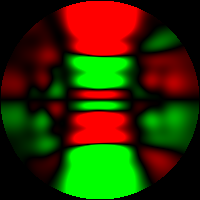
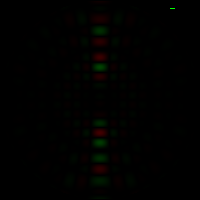
NTFF and periodic BC working

diff --git a/excFDTD/excFDTD.c b/excFDTD/excFDTD.c
@@ -10,11 +10,11 @@
 #define _DimY (100)
 #define _DimZ (100)
 
-#define _STEP (1)
+#define _STEP (50)
 
 //eq35
 //consider using simple PML for NTFF calculation
-#define _PML_PX_X_ (16)
+#define _PML_PX_X_ (0)
 #define _PML_PX_Y_ (0)
 #define _PML_PX_Z_ (16)
 #define _PML_ALPHA_TUNING_ 0.1f
@@ -285,6 +285,7 @@ void Dielectric_HE_C(void);
 void DCP_HE_C(void);
 void syncPadding(void);
 void RFT(void);
+void NTFF_onlyUpside(void);
 void NTFF(void);
 int snapshot(void);
 
@@ -300,8 +301,8 @@ int main(int argc, char* argv[])
 		float addval = sin(2.0f * M_PI * _c0 / 500e-9 * (float)i * _dt_) * exp(-((float)i - 50.0f)*((float)i - 50.0f) / 25.0f / 25.0f);
 		//float addval = sin(2.0f * M_PI * _c0 / 500e-9 * (float)i * _dt_) ;
 		addval /= 1000.0f * 32.0f;
-		for (int i = 5; i < 95; i++) {
-			for (int j = 5; j < 95; j++) {
+		for (int i = 0; i < _DimX; i++) {
+			for (int j = 0; j < _DimX; j++) {
 				eps0_c_Ey[_INDEX_XYZ(i, j, 50)] += addval / 1.0f;
 				Hx[_INDEX_XYZ(i, j, 50)] -= addval / 2.0f;
 				Hx[_INDEX_XYZ(i, j, 49)] -= addval / 2.0f;
@@ -312,7 +313,8 @@ int main(int argc, char* argv[])
 	}
 	printf("\ntime : %f\n", (double)(clock() - start) / CLK_TCK);
 	snapshot();
-	//NTFF();
+	NTFF_onlyUpside();
+	NTFF();
 	return 0;
 }
 
@@ -523,6 +525,28 @@ void RFT(void) {
 	RFT_counter++;
 }
 
+void NTFF_onlyUpside(void){
+	for (int i = 0; i < _SURF_SIZE_; i++) {
+		for (int j = 0; j < FREQ_N; j++) {
+			int surf_x, surf_y, surf_z;
+			_SET_SURF_XYZ_INDEX(i);
+			if (surf_z != _SURF_EndZ_) {
+				FT_eps0cE[i][j][0][0] = 0;
+				FT_eps0cE[i][j][1][0] = 0;
+				FT_eps0cE[i][j][2][0] = 0;
+				FT_eps0cE[i][j][0][1] = 0;
+				FT_eps0cE[i][j][1][1] = 0;
+				FT_eps0cE[i][j][2][1] = 0;
+				FT_H[i][j][0][0] = 0;
+				FT_H[i][j][1][0] = 0;
+				FT_H[i][j][2][0] = 0;
+				FT_H[i][j][0][1] = 0;
+				FT_H[i][j][1][1] = 0;
+				FT_H[i][j][2][1] = 0;
+			}
+		}
+	}
+}
 
 #define NTFF_IMG_SIZE 200
 #define _SURF_MidX_ ((_SURF_StartX_+_SURF_EndX_)/2.0f)
@@ -1147,13 +1171,17 @@ int init(void)
 		Y += (tmp % _gridDimY) * (_blockDimY - 2); tmp /= _gridDimY;
 		Z += (tmp % _gridDimZ) * (_blockDimZ - 2); tmp /= _gridDimZ;
 		//if (X >= _DimX+1 || Y >= _DimY+1 || Z >= _DimZ+1) { continue; }
+		if (X>= _DimX || Y >= _DimY || Z >= _DimZ) {
+			mask[i] |= (1 << 0); // 0th bit : Padding 
+			continue;
+		}
 
 		alpha_dt_div_eps0[i] = (_PML_ALPHA_TUNING_); // FIXME 
 
 
 		//FIXME : check PML area
 		//FIXME : sigma do not need to be an array
-		if ((X + 1 <= ((_PML_PX_X_)) || (_DimX)-((_PML_PX_X_)) <= X)) {
+		if ((X + 1 <= ((_PML_PX_X_)) || (_DimX)-((_PML_PX_X_)) <= X) && Y<_DimX) {
 			//if ((X + 1 <= ((pml_px_x)) || (_DimX)-((pml_px_x)) <= X) && ((pml_px_y)) < Y+1 && Y < (_DimY)-((_PML_PX_Y_)) && ((_PML_PX_Z_)) < Z + 1 && Z < (_DimZ)-((_PML_PX_Z_)) ) {
 			mask[i] |= (1 << 1); // 1st bit : PML
 			sigmaX_dt_div_eps0[i] = pow(fmin(fabs(((_PML_PX_X_))-X), fabs(((_PML_PX_X_))+X - (_DimX)+1)) / ((pml_px_x)), (pml_n)) / pml_sigma_x_dt_div_eps0_max_inv;
@@ -1161,7 +1189,7 @@ int init(void)
 			b_X[i] = expf( -alpha_dt_div_eps0[i] - sigmaX_dt_div_eps0[i]/kappaX[i] ); //close to 0
 			C_X[i] = sigmaX_dt_div_eps0[i] / (sigmaX_dt_div_eps0[i] * kappaX[i] + alpha_dt_div_eps0[i] * kappaX[i] * kappaX[i] ) * (b_X[i] - 1.0f); //close to 1
 		}
-		if ((Y + 1 <= ((_PML_PX_Y_)) || (_DimY)-((_PML_PX_Y_)) <= Y)) {
+		if ((Y + 1 <= ((_PML_PX_Y_)) || (_DimY)-((_PML_PX_Y_)) <= Y) && Y<_DimY) {
 			//if ((Y + 1 <= ((_PML_PX_Y_)) || (_DimY)-((_PML_PX_Y_)) <= Y) && ((_PML_PX_Z_)) < Z + 1 && Z < (_DimY)-((_PML_PX_Z_)) && ((_PML_PX_X_)) < X + 1 && X < (_DimX)-((_PML_PX_X_)) ) {
 			mask[i] |= (1 << 1); // 1st bit : PML
 			sigmaY_dt_div_eps0[i] = pow(fmin(fabs(((_PML_PX_Y_))-Y), fabs(((_PML_PX_Y_))+Y - (_DimY)+1)) / ((pml_px_y)), (pml_n)) / pml_sigma_y_dt_div_eps0_max_inv;
@@ -1169,7 +1197,7 @@ int init(void)
 			b_Y[i] = expf(-alpha_dt_div_eps0[i] - sigmaY_dt_div_eps0[i] / kappaY[i]);
 			C_Y[i] = sigmaY_dt_div_eps0[i] / (sigmaY_dt_div_eps0[i] * kappaY[i] + alpha_dt_div_eps0[i] * kappaY[i] * kappaY[i]) * (b_Y[i] - 1.0f);
 		}
-		if ((Z + 1 <= ((_PML_PX_Z_)) || (_DimZ)-((_PML_PX_Z_)) <= Z)) {
+		if ((Z + 1 <= ((_PML_PX_Z_)) || (_DimZ)-((_PML_PX_Z_)) <= Z) && Y<_DimZ) {
 			//if ((Z + 1 <= ((_PML_PX_Z_)) || (_DimZ)-((_PML_PX_Z_)) <= Z) && ((_PML_PX_X_)) < X + 1 && X < (_DimX)-((_PML_PX_X_)) && ((_PML_PX_Y_)) < Y + 1 && Y < (_DimY)-((_PML_PX_Y_)) ) {
 			mask[i] |= (1 << 1); // 1st bit : PML
 			sigmaZ_dt_div_eps0[i] = pow(fmin(fabs(((_PML_PX_Z_))-Z), fabs(((_PML_PX_Z_))+Z - (_DimZ)+1)) / ((pml_px_z)), (pml_n)) / pml_sigma_z_dt_div_eps0_max_inv;
@@ -1356,7 +1384,7 @@ _syncZX_(eps0_c_Pcp2x) _syncZX_(eps0_c_Pcp2y) _syncZX_(eps0_c_Pcp2z)
 #define _syncPeriodicX(FIELD) \
 FIELD[ \
 	_INDEX_THREAD( \
-		((_DimX - 1))/(_blockDimX-2) , ((Y))/(_blockDimY-2), ((Z))/(_blockDimZ-2), \
+		_gridDimX -1                 , ((Y))/(_blockDimY-2), ((Z))/(_blockDimZ-2), \
 		((_DimX - 1))%(_blockDimX-2)+2 , ((Y))%(_blockDimY-2)+1 , ((Z))%(_blockDimZ-2)+1 ) \
 	] = FIELD[_INDEX_XYZ(0, Y, Z)]; \
 FIELD[ \
@@ -1364,22 +1392,22 @@ FIELD[ \
 		0 , ((Y))/(_blockDimY-2), ((Z))/(_blockDimZ-2), \
 		0 , ((Y))%(_blockDimY-2)+1 , ((Z))%(_blockDimZ-2)+1 ) \
 	] = FIELD[_INDEX_XYZ(_DimX - 1, Y, Z)]; 
-////should work : FIELD[_INDEX_THREAD( _gridDimX -1 , ((Y))/(_blockDimY-2), ((Z))/(_blockDimZ-2), ((_DimX - 1))%(_blockDimX-2)+2 , ((Y))%(_blockDimY-2)+1 , ((Z))%(_blockDimZ-2)+1 ) ] 
+
+////should work : FIELD[_INDEX_THREAD((_DimX - 1))/(_blockDimX-2), ((Y))/(_blockDimY-2), ((Z))/(_blockDimZ-2), ((_DimX - 1))%(_blockDimX-2)+2 , ((Y))%(_blockDimY-2)+1 , ((Z))%(_blockDimZ-2)+1 ) ] 
 
 #define _syncPeriodicY(FIELD) \
-FIELD[_INDEX_THREAD( ((X))/(_blockDimX-2) , _gridDimY -1 , ((Z))/(_blockDimZ-2), \
-	((X))%(_blockDimX-2)+1 ,((_DimY - 1))%(_blockDimY-2)+2, ((Z))%(_blockDimZ-2)+1 ) ] \
-	= 999; \
-FIELD[_INDEX_THREAD( ((X))/(_blockDimX-2) , 0, ((Z))/(_blockDimZ-2),\
+FIELD[_INDEX_THREAD( \
+	((X))/(_blockDimX-2)   , _gridDimY -1 ,                   ((Z))/(_blockDimZ-2), \
+	((X))%(_blockDimX-2)+1 ,((_DimY -1 ))%(_blockDimY-2) + 2, ((Z))%(_blockDimZ-2)+1 ) ] \
+	= FIELD[_INDEX_XYZ(X, 0, Z)];\
+FIELD[_INDEX_THREAD( \
+	((X))/(_blockDimX-2)   , 0 , ((Z))/(_blockDimZ-2),\
 	((X))%(_blockDimX-2)+1 , 0 , ((Z))%(_blockDimZ-2)+1 ) ] \
-	= 999;
-
-//  FIELD[_INDEX_XYZ(X, 0, Z)]; \
-//FIELD[_INDEX_XYZ(X, _DimY - 1, Z)]; 
+	= FIELD[_INDEX_XYZ(X, _DimY - 1, Z)]; 
 
 #define _syncPeriodicZ(FIELD) \
 FIELD[_INDEX_THREAD(\
-	((X))/(_blockDimX-2) , ((Y))/(_blockDimY-2), ((_DimZ - 1))/(_blockDimZ-2),\
+	((X))/(_blockDimX-2) , ((Y))/(_blockDimY-2), _gridDimZ -1,\
 	((X))%(_blockDimX-2)+1 , ((Y))%(_blockDimY-2)+1 , ((_DimZ - 1))%(_blockDimZ-2)+2 ) ] \
 	= FIELD[_INDEX_XYZ(X, Y, 0)]; \
 FIELD[_INDEX_THREAD(\
@@ -1426,15 +1454,12 @@ void syncPadding(void) {
 					for (int yy = 0; yy < _blockDimY; yy++) {_syncZXall }
 			}
 
-	//for (int Y = 0; Y < _DimY; Y++)
-	//	for (int Z = 0; Z < _DimZ; Z++) { _syncPeriodicXall }
+	for (int Y = 0; Y < _DimY; Y++)
+		for (int Z = 0; Z < _DimZ; Z++) { _syncPeriodicXall }
 	for (int Z = 0; Z < _DimZ; Z++)
-		for (int X = 0; X < _DimX; X++)
-			if ((Z % (_blockDimZ - 2)) != 0 && (Z % (_blockDimZ - 2)) != _blockDimZ - 3 &&
-				(X % (_blockDimX - 2)) != 0 && (X % (_blockDimX - 2)) != _blockDimX - 3)
-				{ _syncPeriodicYall }
-	//for (int X = 0; X < _DimX; X++)
-	//	for (int Y = 0; Y < _DimY; Y++) { _syncPeriodicZall }
+		for (int X = 0; X < _DimX; X++)	{ _syncPeriodicYall }
+	for (int X = 0; X < _DimX; X++)
+		for (int Y = 0; Y < _DimY; Y++) { _syncPeriodicZall }
 
 }
 
